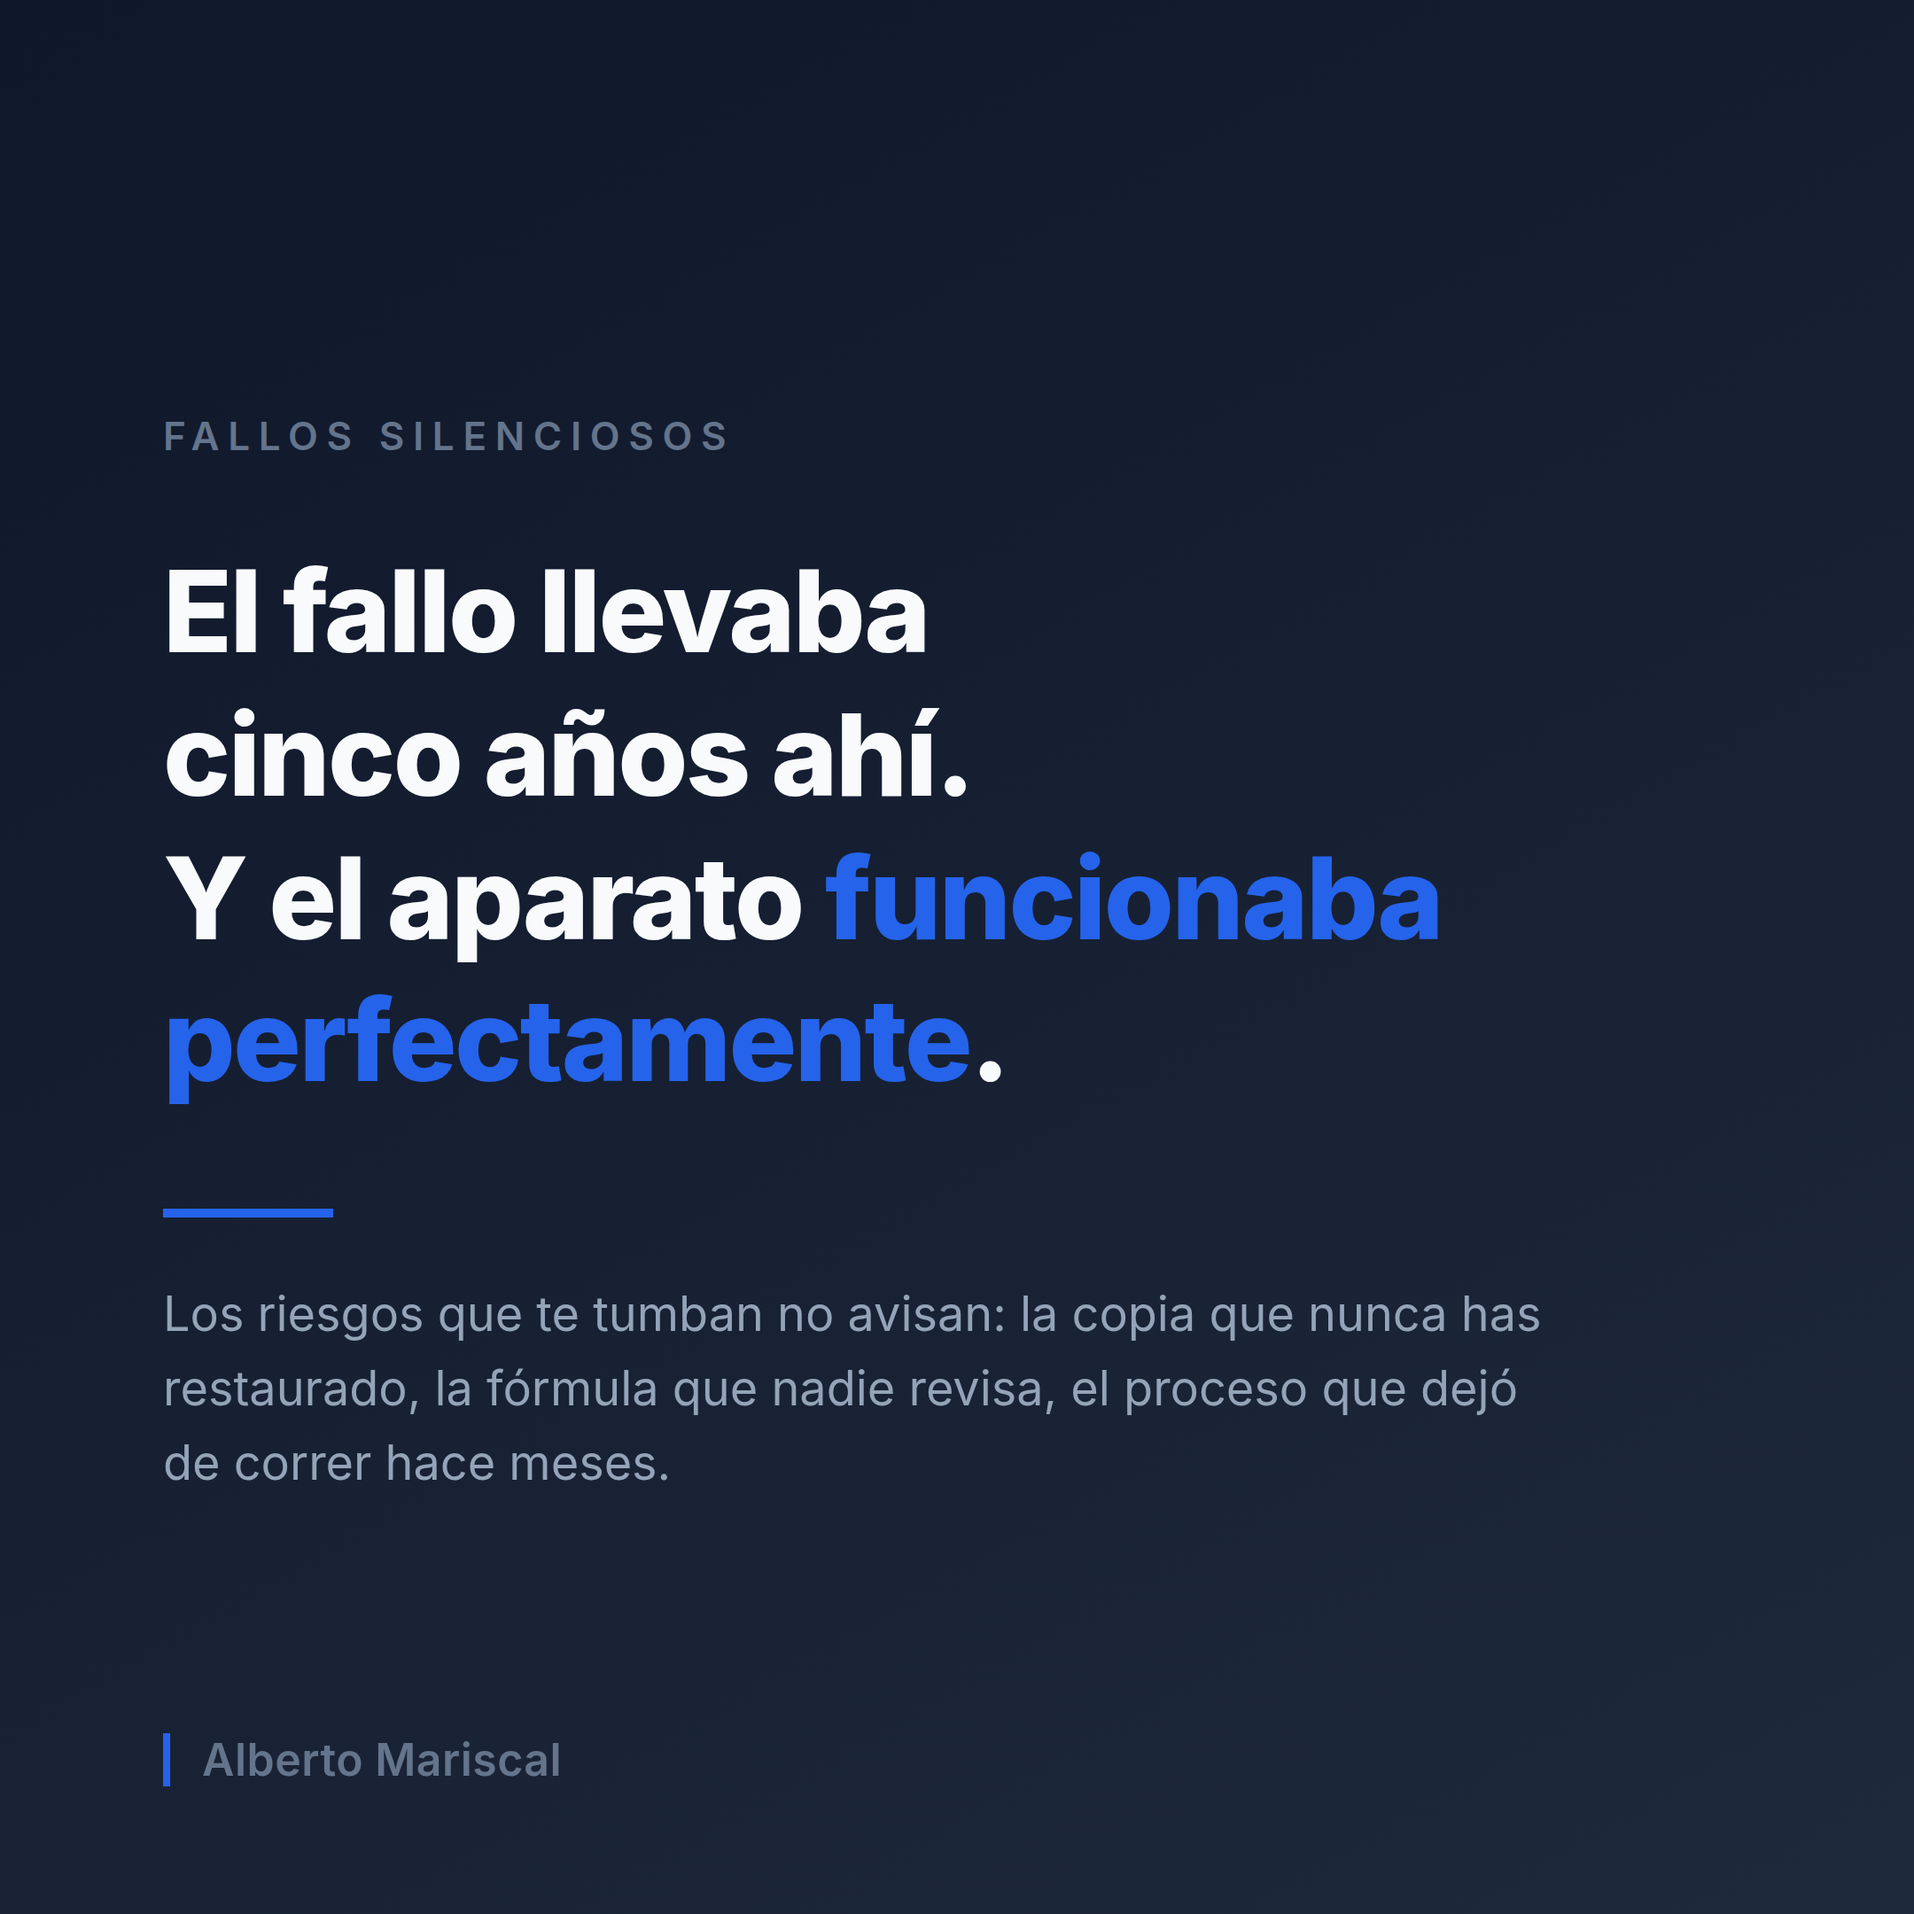
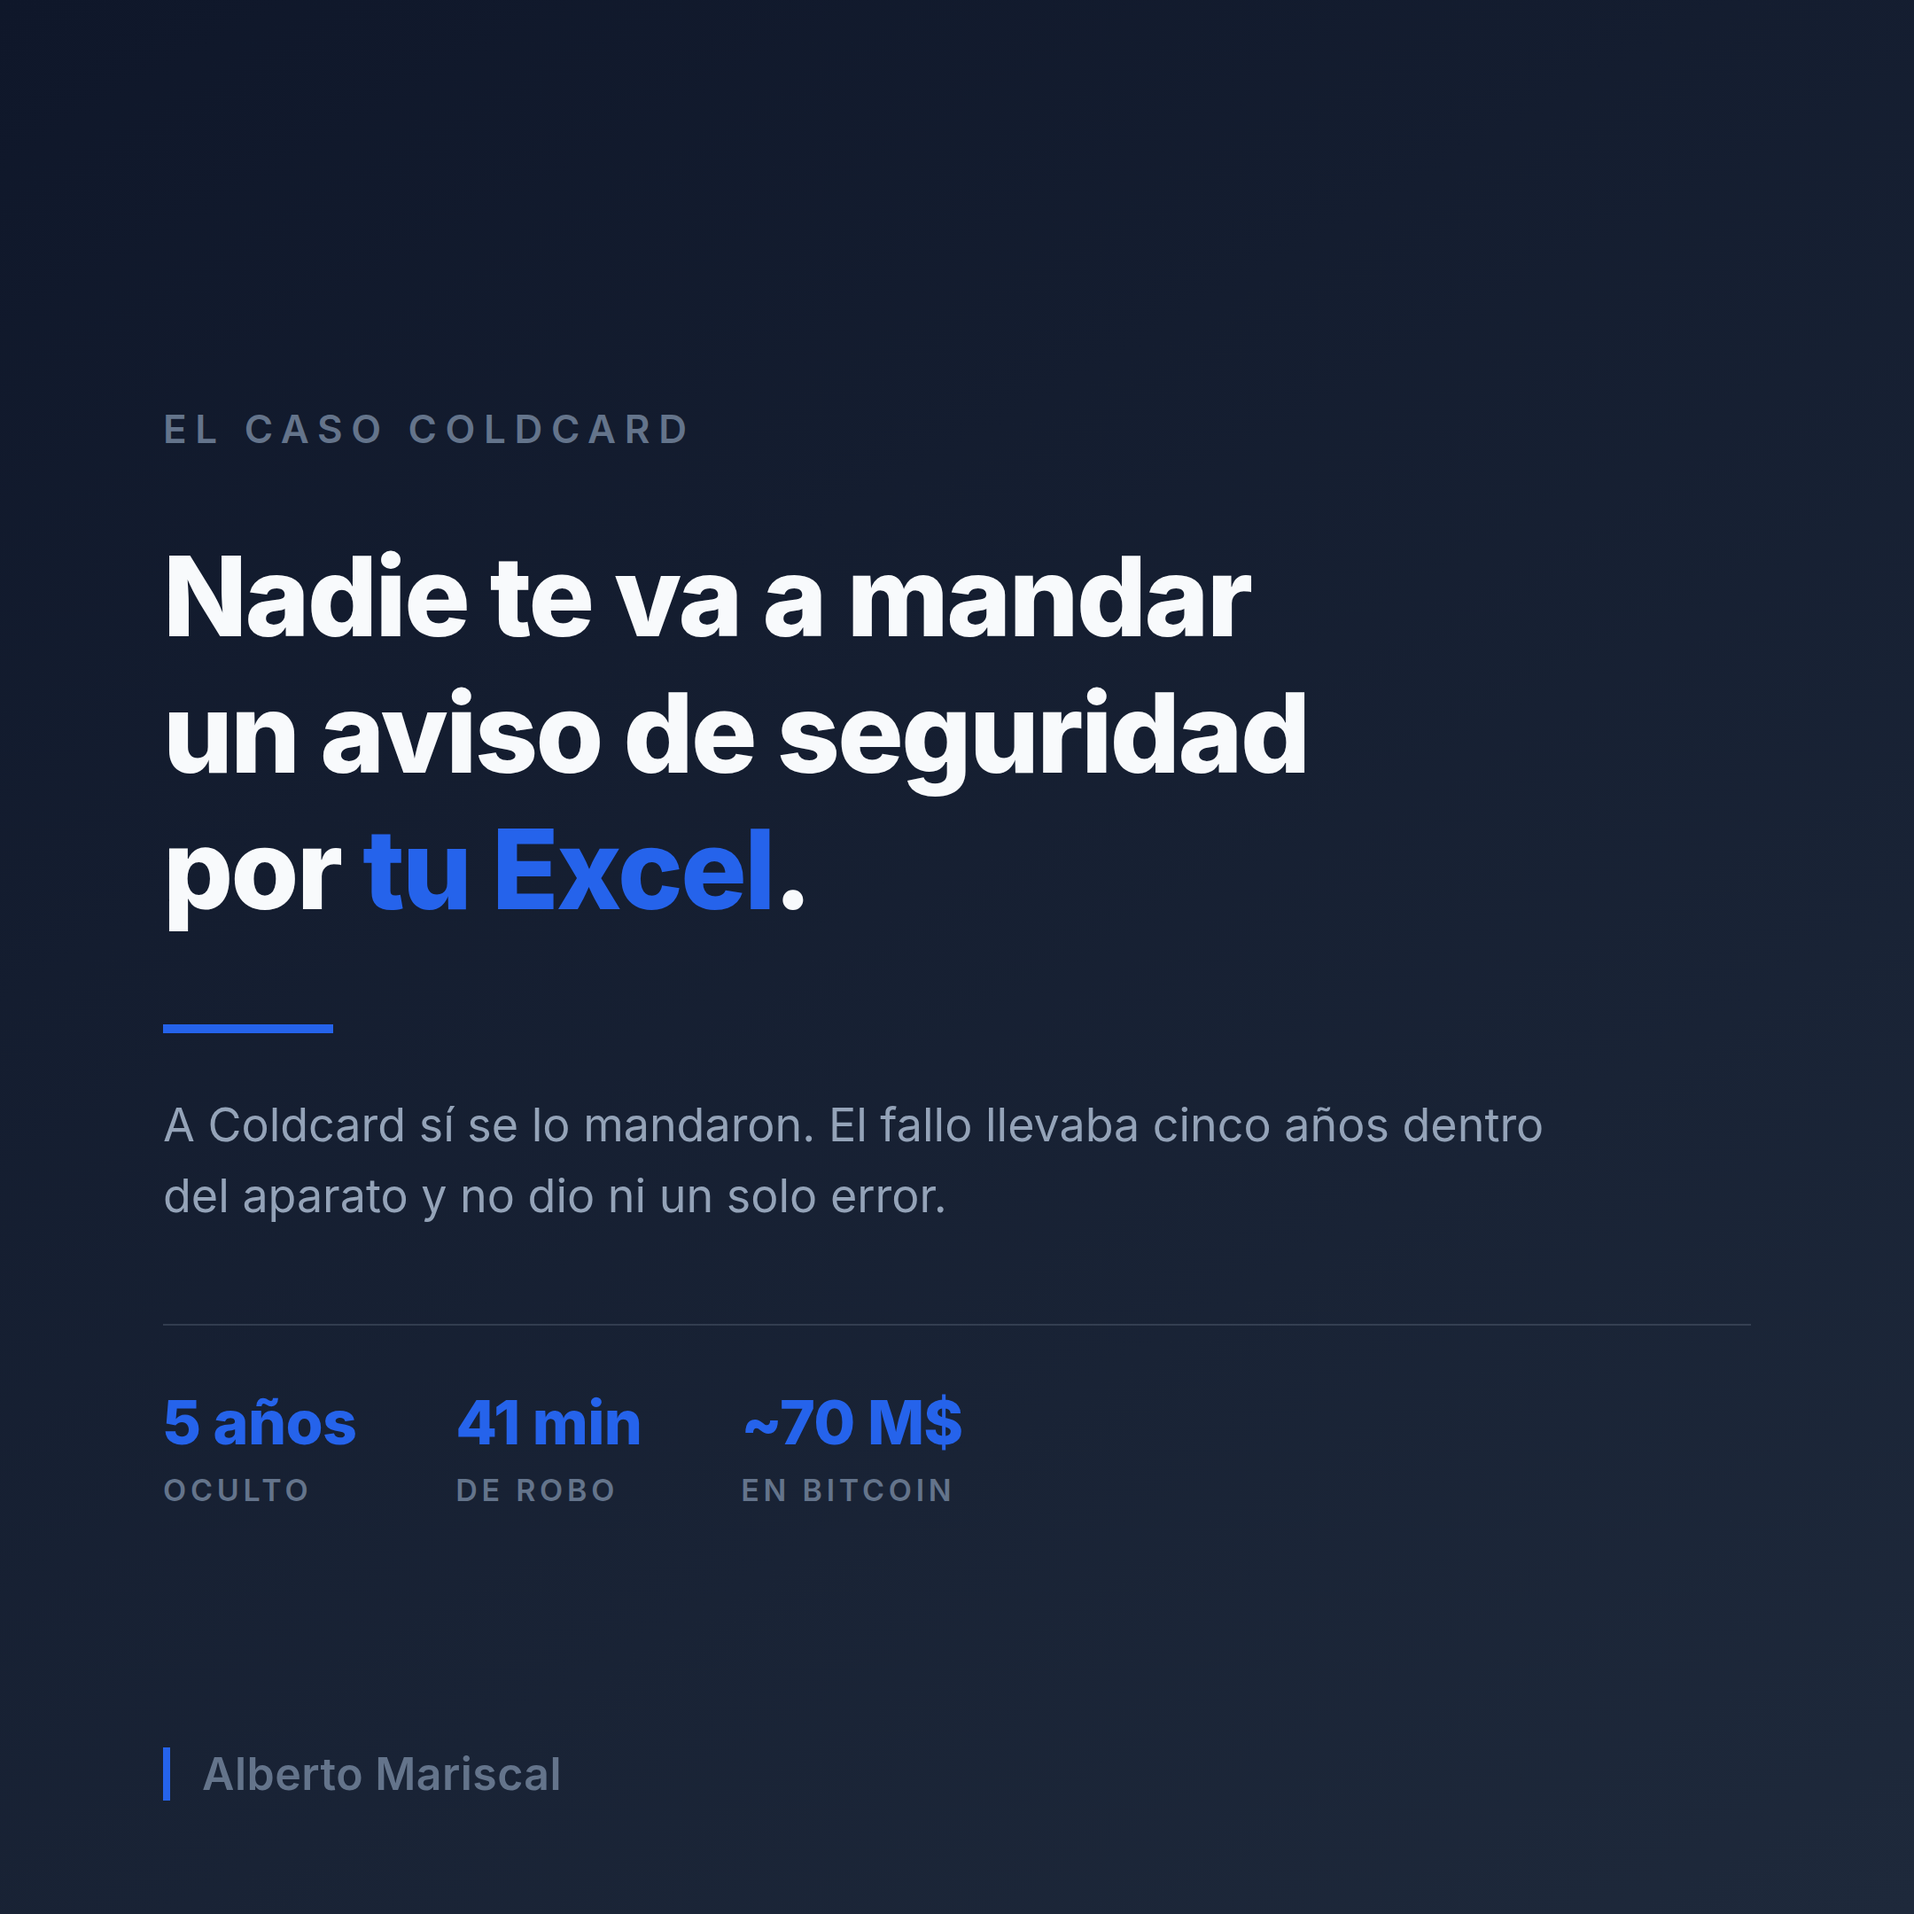
Rehacer las dos tarjetas: titular sobre el lector, noticia como prueba
Alberto rechaza la tarjeta del lunes por "sonar a IA". Se convierte en regla
escrita en guia-estilo-visual.md en vez de arreglarlo solo esta vez:

- La antitesis simetrica de dos tiempos es el tic delatador si se usa siempre.
- Sujeto abstracto ("el fallo", "el aparato") no da imagen mental.
- Regla de reparto: el titular habla de la realidad del lector, el caso de la
  noticia va en la bajada como prueba.
- Prueba rapida: si serviria en la tarjeta de cualquier otro, no vale.

Tarjetas nuevas: "Nadie te va a mandar un aviso de seguridad por tu Excel" y
"Lo que hoy automatizas gratis va a tener tarifa". Ademas, elemento visual
nuevo: tira de datos con cifras reales bajo la bajada.

Claude-Session: https://claude.ai/code/session_01SddKWTWgQHQW9oh6frJqEi

diff --git a/contenido-linkedin/guia-estilo-visual.md b/contenido-linkedin/guia-estilo-visual.md
@@ -46,6 +46,21 @@ Colores que transmiten confianza y tecnología, sin caer en lo genérico-corpora
 
 **HTML/CSS renderizado con Chromium headless (Playwright), capturado a PNG.** Es gratuito y ya integrado en el flujo de trabajo. Se probó generación vía API de Google (Nano Banana / Nano Banana Pro / Nano Banana 2 / Imagen 4) y **se descartó**: todos esos modelos tienen cuota gratuita de 0 peticiones — requieren facturación activada en Google Cloud, con coste real por imagen. Mermaid se integra con el mismo mecanismo (se carga la librería vía CDN dentro del HTML y se captura igual), así que no hace falta una herramienta nueva.
 
+## Cómo se escribe el titular de una tarjeta (regla añadida 2026-08-01)
+
+Feedback real de Alberto sobre un borrador (*"El fallo llevaba cinco años ahí. Y el aparato funcionaba perfectamente"*): **sonaba a IA**. El diagnóstico, para no repetirlo:
+
+- **La antítesis simétrica de dos tiempos es el tic delatador.** "No es X. Es Y." / "A no pasó. Y B sí." Escrita una vez tiene fuerza; usada en todas las tarjetas, se reconoce como plantilla de modelo de lenguaje. Se puede usar, pero no siempre.
+- **Sujeto abstracto = ninguna imagen mental.** "El fallo", "el aparato", "el software" no le pasan a nadie. "Tu Excel", "la copia que nunca has restaurado", "lo que hoy automatizas" sí.
+- **Regla de reparto**: el **titular habla de la realidad del lector**; el **caso de la noticia va en la bajada**, como prueba de lo que afirma el titular. No al revés. Si la tarjeta se lee sola en el feed, quien pasa tiene que reconocerse en ella antes de saber de qué noticia va.
+- **Prueba rápida**: si el titular podría ir en la tarjeta de cualquier otra persona del sector sin cambiar una palabra, no sirve. Tiene que oler a alguien que se ha peleado con eso.
+
+## Tira de datos (elemento nuevo, 2026-08-01)
+
+Bajo la bajada, separada por una línea fina, una fila de 2-3 pares **cifra + etiqueta** (cifra en azul de acento peso 800; etiqueta en gris, mayúsculas pequeñas con tracking). Ejemplo: `5 AÑOS oculto · 41 MIN de robo · ~70 M$ en bitcoin`.
+
+Para qué sirve: ancla la tarjeta en hechos verificables y da variedad visual sin romper la sobriedad. **Solo con cifras reales y contrastadas** — es la misma línea roja de siempre. Si no hay dato que poner, la tarjeta va sin tira, no se rellena por rellenar.
+
 ## Qué evitar (para no parecer genérico o "hecho con IA sin criterio")
 
 - Nada de iconos de banco de imágenes ni ilustraciones tipo clipart.

diff --git a/seguimiento/registro-sesiones.md b/seguimiento/registro-sesiones.md
@@ -246,3 +246,9 @@ A partir de aquí el trabajo es **ejecución**, no diagnóstico: conseguir el pi
   - **Sin precios**: la horquilla de 10-20 $/mes es especulación de analistas citados por CNBC, no un anuncio de Apple. No entra.
   - Cierra el arco de las últimas semanas: DNI ("te montas tu herramienta") → APIs/MCP ("y querrás tus datos fuera") → este ("y esto tiene factura").
 - **Aviso abierto sobre cadencia (no resuelto)**: con estos dos, la semana del 3 queda en cuatro posts (lun-mar-mié-jue), un salto de 2 a 4 **sin una sola métrica** de los dos publicados. Recomendación por escrito en `estrategia-contenido.md`: mover el post de departamentos (atemporal) a la semana siguiente y dejarlo en tres. Decisión de Alberto.
+
+### 2026-08-01 (cont.) — "Suena a IA": regla nueva para los titulares de las tarjetas
+- Alberto rechaza la primera tarjeta del post del lunes (*"El fallo llevaba cinco años ahí. Y el aparato funcionaba perfectamente"*): **suena a IA**, no engancha y no conecta con la temática general. Feedback bueno y concreto, así que se convierte en regla, no en un arreglo puntual.
+- **Diagnóstico, escrito en `guia-estilo-visual.md`**: (1) la antítesis simétrica de dos tiempos ("No es X, es Y") es el tic delatador cuando se usa siempre; (2) sujeto abstracto ("el fallo", "el aparato") no produce imagen mental; (3) **regla de reparto**: el titular habla de la realidad del lector y el caso de la noticia va en la bajada como prueba, nunca al revés; (4) prueba rápida: si el titular serviría igual en la tarjeta de cualquier otro del sector, no vale.
+- **Tarjetas rehechas**: lunes → *"Nadie te va a mandar un aviso de seguridad por **tu Excel**"* (el caso Coldcard baja a la bajada). Miércoles → *"Lo que hoy automatizas gratis **va a tener tarifa**"* (Apple baja a la bajada). Las dos apuntan ahora a lo que el lector ya hace, no al protagonista de la noticia.
+- **Elemento visual nuevo: tira de datos** bajo la bajada (2-3 pares cifra + etiqueta, cifra en azul de acento). Ancla la tarjeta en hechos verificables y da variedad sin romper la sobriedad. Documentado en la guía, con la condición de siempre: solo cifras reales y contrastadas; si no hay dato, no hay tira.

diff --git a/contenido-linkedin/posts/2026-08-03-fallos-silenciosos/post.md b/contenido-linkedin/posts/2026-08-03-fallos-silenciosos/post.md
@@ -3,7 +3,7 @@
 **Estado:** Listo para publicar
 **Fecha prevista:** lunes 2026-08-03
 **Línea de contenido:** **Actualidad comentada** (línea nueva, ver `estrategia-contenido.md`). No es un post de cripto ni de seguridad informática: el caso Coldcard es la excusa para hablar de **fallos silenciosos** — los que no dan señal porque el sistema sigue funcionando. Doble lectura: reclutador lee criterio de riesgo y juicio de ingeniería; dueño de pyme se lleva una acción concreta (probar una restauración). No es pitch de venta.
-**Imágenes:** `frase.png` — tarjeta-cita azul noche, siguiendo `contenido-linkedin/guia-estilo-visual.md`.
+**Imágenes:** `frase.png` — *"Nadie te va a mandar un aviso de seguridad por **tu Excel**"*, con una tira de datos reales debajo (5 años oculto · 41 min de robo · ~70 M$). Segunda versión: la primera (*"El fallo llevaba cinco años ahí y el aparato funcionaba perfectamente"*) se descartó porque sonaba a frase generada por IA — antítesis simétrica, sujeto abstracto y ninguna conexión con el mundo del lector. La regla que sale de ahí, aplicable a todas las tarjetas: **el titular habla de la realidad del lector (su Excel, su copia, su proceso), y el caso de la noticia va en la bajada como prueba.**
 **Aviso de encuadre:** Alberto **no** aparece como usuario de Coldcard ni de ningún dispositivo concreto — no lo sabemos y no se inventa. El post comenta una noticia pública, sin atribuirse experiencia propia en el caso.
 
 ## Hechos verificados (2026-08-01)

diff --git a/contenido-linkedin/posts/2026-08-05-ia-de-pago/post.md b/contenido-linkedin/posts/2026-08-05-ia-de-pago/post.md
@@ -3,7 +3,7 @@
 **Estado:** Listo para publicar
 **Fecha prevista:** miércoles 2026-08-05
 **Línea de contenido:** **Actualidad comentada** (línea nueva, ver `estrategia-contenido.md`). El anuncio de Apple es la excusa para una idea que sí importa a una pyme: la fase de IA gratis o casi gratis se está acabando, y quien haya montado procesos encima tiene que empezar a tratarla como un coste variable. Doble lectura: reclutador lee criterio de coste/arquitectura (on-device vs. nube); dueño de pyme se lleva una cuenta que hacer. No es pitch de venta.
-**Imágenes:** `frase.png` — tarjeta-cita azul noche, siguiendo `contenido-linkedin/guia-estilo-visual.md`.
+**Imágenes:** `frase.png` — *"Lo que hoy automatizas gratis **va a tener tarifa**"*, con tira de datos debajo (en el móvil: gratis · en la nube: con cuota · el precio: sin confirmar). Misma regla que el post del lunes: el titular apunta a lo que el lector ya está haciendo ("automatizas"), no a Apple; Apple va en la bajada como prueba.
 **Relación con el resto:** cierra el arco de las últimas semanas — el post del DNI decía "hoy te montas tu herramienta por ~20 €/mes", el de APIs/MCP decía "y vas a querer tus datos fuera para hacerlo". Este pone la factura encima de la mesa. Coherente, no repetitivo.
 
 ## Hechos verificados (2026-08-01)
